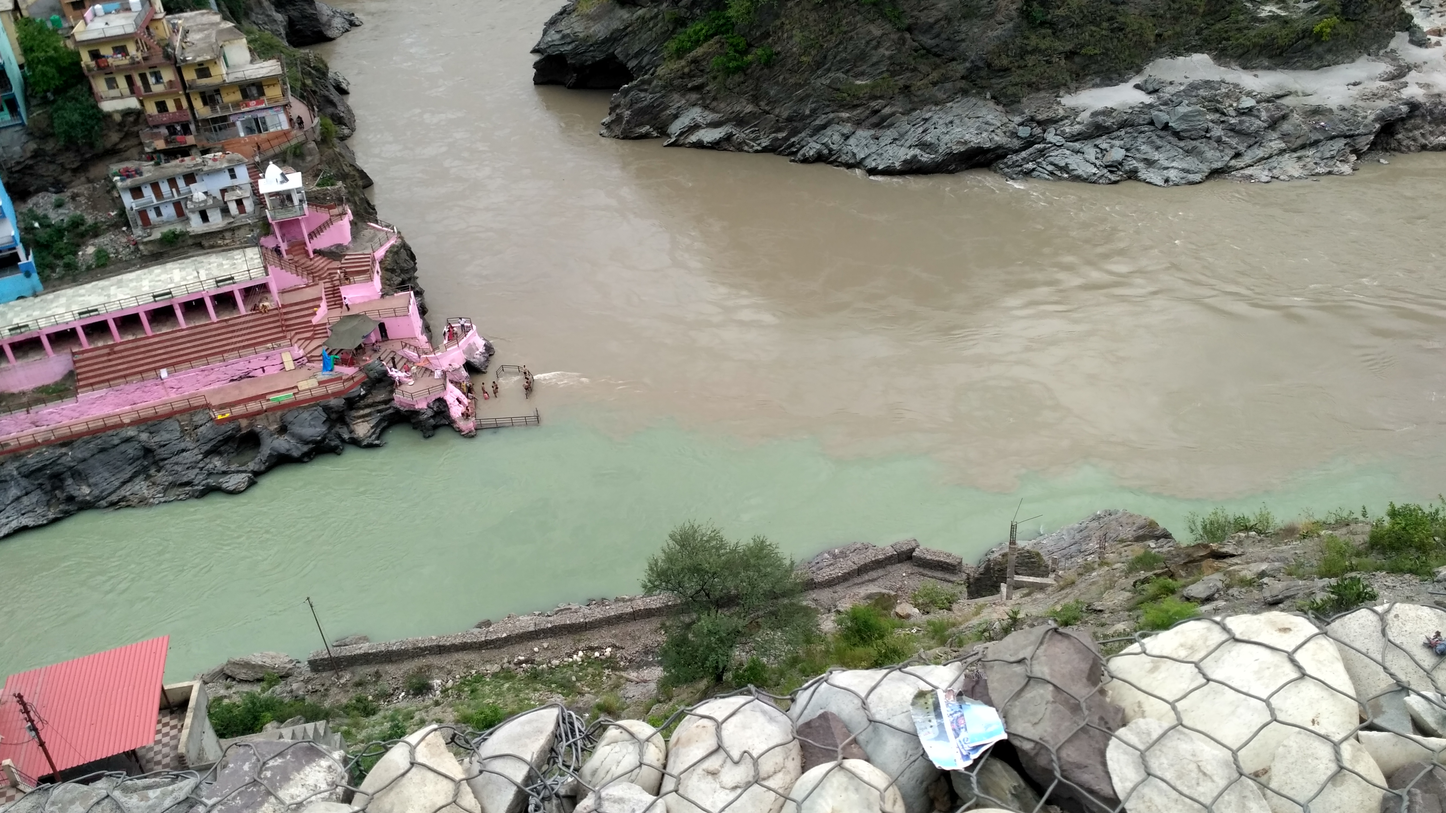
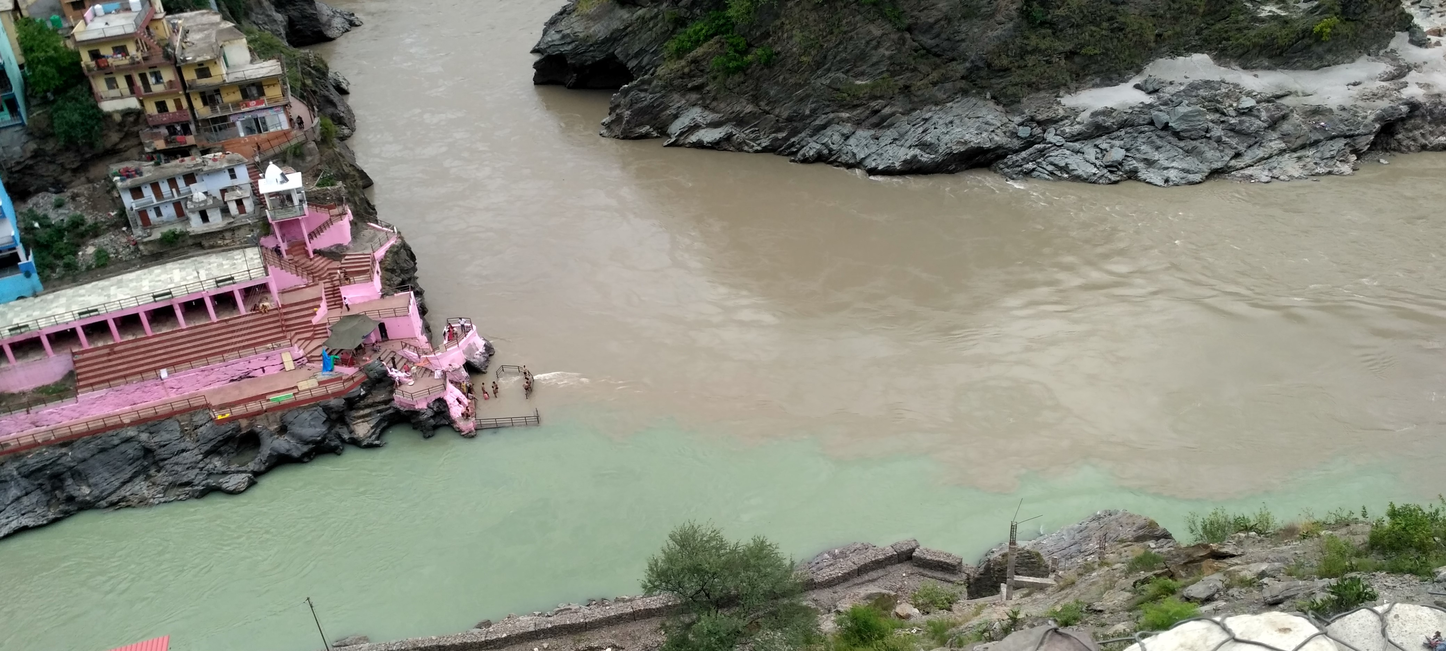
image cropped on home screen

diff --git a/style.css b/style.css
@@ -13,12 +13,11 @@ img{
 }
 .carousel{
     width: 100vw;
-    height: 80vh;
+    
     display: flex;
     justify-content: center;
     overflow: hidden;
-    margin-right:1.9rem;
-    margin-left:.5rem;
+   
     margin-top: .5rem;
    
 }
